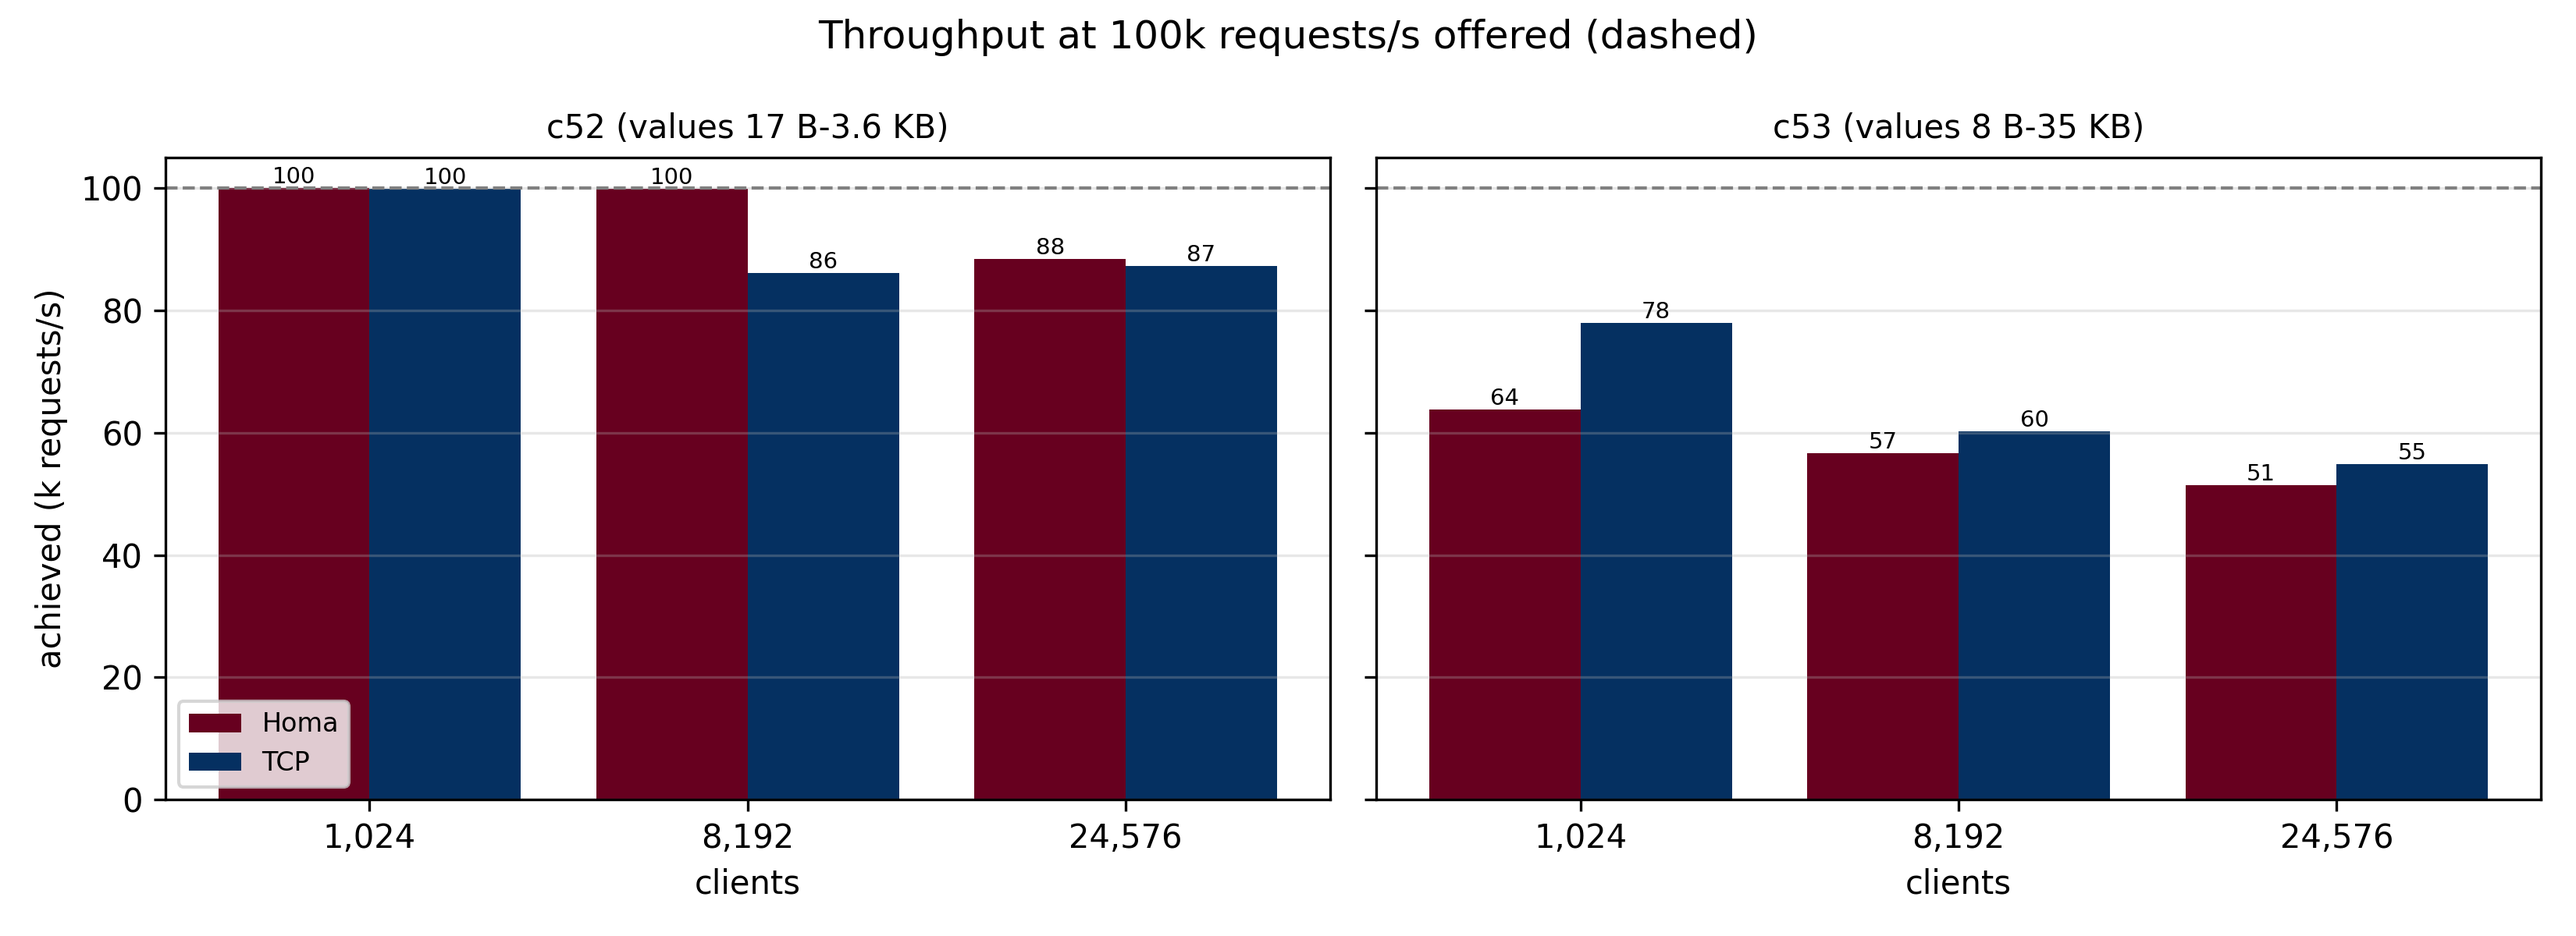
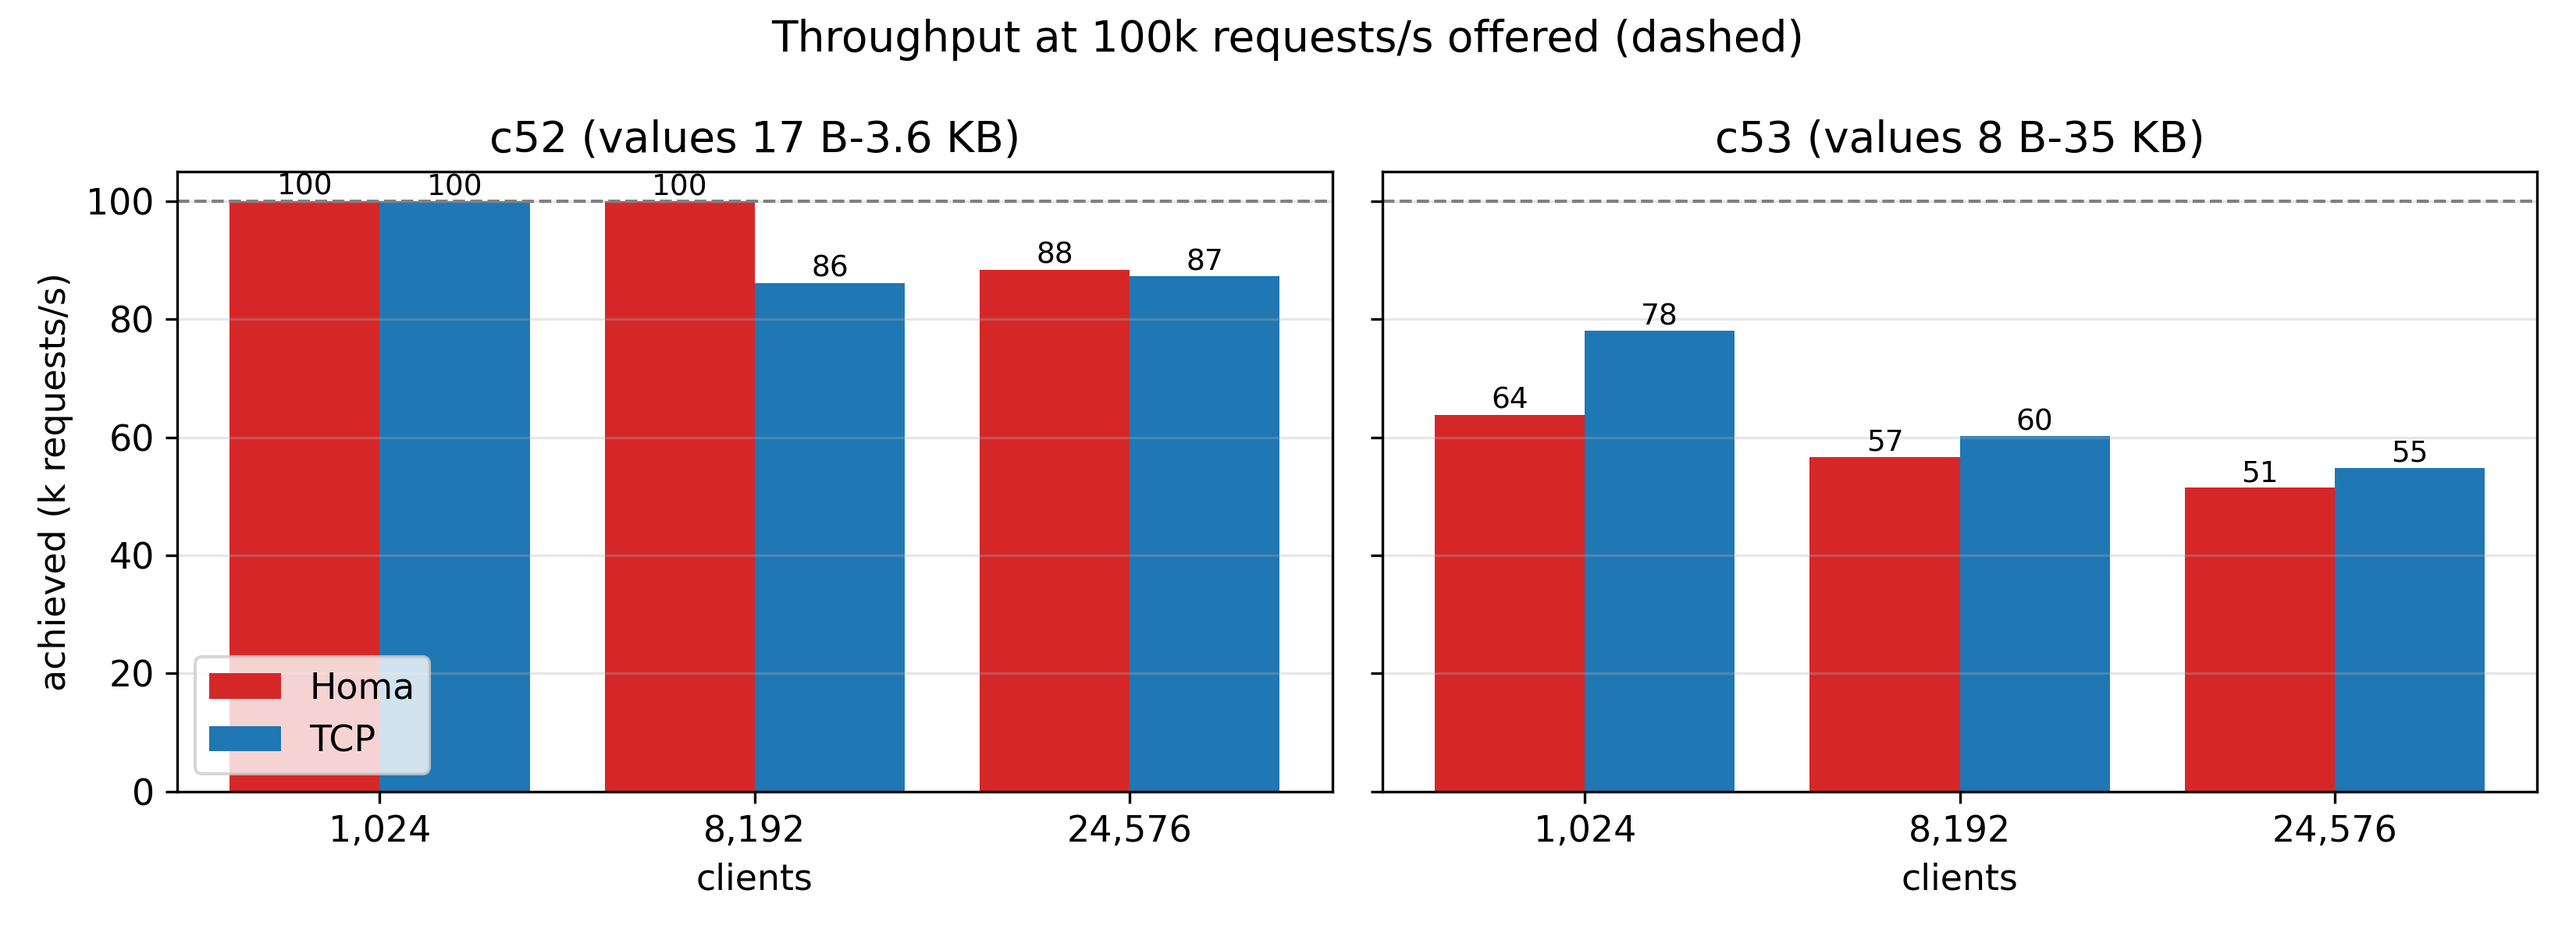
Figures: two series per panel; one figure per workload and sweep; bars for the load sweep

diff --git a/plot.py b/plot.py
@@ -7,8 +7,6 @@ import matplotlib.pyplot as plt
 
 TR = {"homa": "Homa", "tcp": "TCP"}
 WL = {"c52": "c52 (values 17 B-3.6 KB)", "c53": "c53 (values 8 B-35 KB)"}
-SHADE = {"homa": ("#f4a582", "#d6604d", "#67001f"), "tcp": ("#92c5de", "#4393c3", "#053061")}
-MARK = ("o", "s", "^")
 
 def load(name):  # (workload, threads, clients, offered, transport) -> median of each column over rounds
     g = collections.defaultdict(list)
@@ -23,76 +21,74 @@ ok = lambda m: m["ops"] >= 0.98 * m["offered"]  # the server kept up with the of
 cpu = lambda m: m["server_busy_sum"] / 100 / m["ops"] * 1e6  # node0 CPU us per request
 CT, CL = sorted({k[1] for k in C}), sorted({k[3] for k in C})
 
-def by_clients(ax, w, L, f):
-    # one line per client thread count, so a line varies only the clients per thread; linear axis from 0,
-    # and a point over 4x the panel's next largest is drawn at the top with its value
-    lines = [(tr, t, col, mk, sorted((k[2], f(m)) for k, m in C.items()
-                                     if k[0] == w and k[1] == t and k[3] == L and k[4] == tr and ok(m)))
-             for tr in TR for t, col, mk in zip(CT, SHADE[tr], MARK)]
-    vals = sorted(v for *_, pts in lines for _, v in pts)
-    top = vals[-1] * 1.1 if vals[-1] <= 4 * vals[-2] else vals[-2] * 1.25
-    for tr, t, col, mk, pts in lines:
-        ax.plot([n for n, _ in pts], [min(v, top) for _, v in pts], "-", marker=mk, ms=4, color=col,
-                label=f"{TR[tr]}, {t} threads")
-        for n, v in pts:
-            if v > top:
-                ax.annotate(f"{v / 1000:.0f} ms", (n, top), textcoords="offset points", xytext=(6, -10), fontsize=7, color=col)
-    ax.set_xscale("log"); ax.set_ylim(0, top); ax.grid(alpha=.3)
-    ax.set_title(f"{WL[w]}, {L // 1000}k requests/s", fontsize=9)
+COL = {"homa": "#d62728", "tcp": "#1f77b4"}
+plt.rcParams.update({"font.size": 11, "lines.linewidth": 2.2, "lines.markersize": 6})
+FT = 8  # the thread count whose series spans 8 to 24,576 clients; 4 and 12 threads are in the tables
 
-# 1. server CPU per request vs clients
-fig, axs = plt.subplots(2, len(CL), figsize=(11, 7.5), sharex=True)
-for i, w in enumerate(WL):
-    for j, L in enumerate(CL):
-        by_clients(axs[i][j], w, L, cpu)
-        if j == 0: axs[i][j].set_ylabel("node0 CPU per request (us)")
-for ax in axs[-1]: ax.set_xlabel("clients")
-axs[0][0].legend(fontsize=7, ncol=2)
-fig.suptitle("Server CPU per request vs clients (one line per client thread count)")
-fig.tight_layout(); fig.savefig("cpu-vs-clients.png", dpi=300)
+def ends(ax, xs, vs, tr, top):
+    # a value over the axis is drawn at the top and labelled
+    ax.plot(xs, [min(v, top) for v in vs], "-o", color=COL[tr], label=TR[tr])
+    for x, v in zip(xs, vs):
+        if v > top: ax.annotate(f"{v / 1000:.1f} ms", (x, top), textcoords="offset points", xytext=(5, -12),
+                                fontsize=9, color=COL[tr])
 
-# 2. GET p50 and p99 vs clients
-fig, axs = plt.subplots(4, len(CL), figsize=(11, 13), sharex=True)
-for i, (w, c, lab) in enumerate((w, c, lab) for w in WL for c, lab in (("get_p50_us", "p50"), ("get_p99_us", "p99"))):
-    for j, L in enumerate(CL):
-        by_clients(axs[i][j], w, L, lambda m: m[c])
-        axs[i][j].set_title(f"{WL[w]}, {L // 1000}k requests/s: GET {lab}", fontsize=9)
-        if j == 0: axs[i][j].set_ylabel(f"GET {lab} (us)")
-for ax in axs[-1]: ax.set_xlabel("clients")
-axs[0][0].legend(fontsize=7, ncol=2)
-fig.suptitle("GET latency vs clients (one line per client thread count; loads each transport sustains)")
-fig.tight_layout(); fig.savefig("latency-vs-clients.png", dpi=300)
+# clients sweep, one figure per workload: rows CPU / p50 / p99, columns load
+ROWS = (("CPU per request (us)", cpu), ("GET p50 (us)", lambda m: m["get_p50_us"]), ("GET p99 (us)", lambda m: m["get_p99_us"]))
+for w in WL:
+    fig, axs = plt.subplots(len(ROWS), len(CL), figsize=(11, 10), sharex=True)
+    for i, (lab, f) in enumerate(ROWS):
+        for j, L in enumerate(CL):
+            ax = axs[i][j]
+            ser = {tr: sorted((k[2], f(m)) for k, m in C.items() if k[:2] == (w, FT) and k[3] == L and k[4] == tr and ok(m))
+                   for tr in TR}
+            vals = sorted(v for pts in ser.values() for _, v in pts)
+            top = vals[-1] * 1.12 if vals[-1] <= 4 * vals[-2] else vals[-2] * 1.3
+            for tr, pts in ser.items():
+                ends(ax, [n for n, _ in pts], [v for _, v in pts], tr, top)
+            last = max(n for pts in ser.values() for n, _ in pts)
+            if last < 24576: ax.text(.97, .06, f"neither keeps up\nbeyond {last:,} clients", transform=ax.transAxes,
+                                     ha="right", fontsize=9, color="gray")
+            ax.set_xscale("log"); ax.set_ylim(0, top); ax.grid(alpha=.3)
+            if i == 0: ax.set_title(f"{L // 1000}k requests/s")
+            if j == 0: ax.set_ylabel(lab)
+            if i == len(ROWS) - 1: ax.set_xlabel("clients (8 threads)")
+    axs[0][0].legend()
+    fig.suptitle(f"{WL[w]}: server CPU and GET latency vs clients")
+    fig.tight_layout(); fig.savefig(f"{w}-clients.png", dpi=300)
 
-# 3. GET p50 and p99 vs offered load, 1,024-24,576 clients
+# load sweep, one figure per workload: grouped bars, rows p50 / p99, columns clients
 NS, LOADS = sorted({k[2] for k in D if k[2] >= 1024}), sorted({k[3] for k in D})
-fig, axs = plt.subplots(2, len(NS), figsize=(13, 7.5), sharey="row")
-for i, w in enumerate(WL):
-    for j, n in enumerate(NS):
-        ax = axs[i][j]
-        for tr in TR:
-            for c, ls, lab in (("get_p99_us", "-", "p99"), ("get_p50_us", "--", "p50")):
-                pts = [(L / 1000, D[(w, 16, n, L, tr)][c]) for L in LOADS if ok(D[(w, 16, n, L, tr)])]
-                ax.plot([x for x, _ in pts], [v for _, v in pts], ls, marker="o", ms=3, color=SHADE[tr][2],
-                        label=f"{TR[tr]} {lab}")
-        ax.set_xlim(15, 105); ax.set_yscale("log"); ax.grid(alpha=.3)
-        ax.set_title(f"{WL[w]}, {n:,} clients", fontsize=10)
-        if i == 1: ax.set_xlabel("offered load (k requests/s)")
-        if j == 0: ax.set_ylabel("GET latency (us)")
-axs[0][0].legend(fontsize=8)
-fig.suptitle("GET p50 and p99 vs load, up to the load each transport sustains (16 client threads)")
-fig.tight_layout(); fig.savefig("latency-vs-load.png", dpi=300)
+for w in WL:
+    fig, axs = plt.subplots(2, len(NS), figsize=(13, 7), sharey="row")
+    for i, (c, lab) in enumerate((("get_p50_us", "GET p50 (us)"), ("get_p99_us", "GET p99 (us)"))):
+        for j, n in enumerate(NS):
+            ax = axs[i][j]
+            for b, tr in enumerate(TR):
+                for x, L in enumerate(LOADS):
+                    m, xb = D[(w, 16, n, L, tr)], x + (b - .5) * .4
+                    if ok(m): ax.bar(xb, m[c], .4, color=COL[tr], label=TR[tr] if x == 0 else None)
+                    else: ax.text(xb, 0, f" saturated at {m['ops'] / 1000:.0f}k", rotation=90, va="bottom",
+                                  ha="center", fontsize=8, color=COL[tr])
+            ax.set_xticks(range(len(LOADS)), [f"{L // 1000}k" for L in LOADS]); ax.set_xlim(-.6, len(LOADS) - .3)
+            ax.grid(axis="y", alpha=.3)
+            if i == 0: ax.set_title(f"{n:,} clients")
+            if i == 1: ax.set_xlabel("offered load (requests/s)")
+            if j == 0: ax.set_ylabel(lab)
+    axs[0][0].legend()
+    fig.suptitle(f"{WL[w]}: GET latency vs load (16 client threads)")
+    fig.tight_layout(); fig.savefig(f"{w}-load.png", dpi=300)
 
-# 4. throughput at 100k offered
+# throughput at 100k offered
 fig, axs = plt.subplots(1, 2, figsize=(11, 4), sharey=True)
 for ax, w in zip(axs, WL):
     for b, tr in enumerate(TR):
         bars = ax.bar([x + (b - .5) * .4 for x in range(len(NS))], [D[(w, 16, n, 100000, tr)]["ops"] / 1000 for n in NS],
-                      .4, color=SHADE[tr][2], label=TR[tr])
-        ax.bar_label(bars, fmt="%.0f", fontsize=7)
+                      .4, color=COL[tr], label=TR[tr])
+        ax.bar_label(bars, fmt="%.0f", fontsize=9)
     ax.axhline(100, ls="--", color="gray", lw=1)
     ax.set_xticks(range(len(NS)), [f"{n:,}" for n in NS]); ax.set_xlabel("clients")
-    ax.set_title(WL[w], fontsize=10); ax.grid(axis="y", alpha=.3)
-axs[0].set_ylabel("achieved (k requests/s)"); axs[0].legend(fontsize=8, loc="lower left")
+    ax.set_title(WL[w]); ax.grid(axis="y", alpha=.3)
+axs[0].set_ylabel("achieved (k requests/s)"); axs[0].legend(loc="lower left")
 fig.suptitle("Throughput at 100k requests/s offered (dashed)")
 fig.tight_layout(); fig.savefig("throughput.png", dpi=300)
 

diff --git a/README.md b/README.md
@@ -106,21 +106,20 @@ transport no longer keeps up. Latency is reported only where the achieved load i
 the offered load; beyond that it measures the backlog. Every run at 20k and 40k requests/s
 achieved its offered load within 0.4%.
 
-### Server CPU per request, 4 to 24,576 clients
+### 4 to 24,576 clients: server CPU and GET latency
 
-![cpu-vs-clients](cpu-vs-clients.png)
+![c52 clients](c52-clients.png)
+![c53 clients](c53-clients.png)
 
-TCP's cost per request grows with the number of clients from the first connections on; Homa's does
-not. With 4 clients both spend the same node0 CPU per request (c52 at 60k: 17.1 us over Homa, 17.3
-over TCP; with c53 at 20k TCP is 5% cheaper). At 24,576 clients TCP spends 28.6 us (c52, 60k) and
-59.0 us (c53, 20k), Homa 17.0 and 35.1: TCP costs 1.7x as much. Homa's cost stays within 7% over
-the whole range. Each line is one client thread count, and the lines of a transport overlap: the
-server's cost depends on the number of clients, not on how the client host drives them.
+The figures show the 8-thread series, the one that spans 8 to 24,576 clients; the tables also give
+4 and 12 threads (4 to 768 clients), whose CPU per request falls on the same curve: the server's
+cost depends on the number of clients, not on how the client host drives them.
 
-### GET latency, 4 to 24,576 clients
-
-![latency-vs-clients](latency-vs-clients.png)
-
+- **Server CPU**: TCP's cost per request grows with the number of clients from the first
+  connections on; Homa's does not. With 4 clients both spend the same node0 CPU per request (c52 at
+  60k: 17.1 us over Homa, 17.3 over TCP; with c53 at 20k TCP is 5% cheaper). At 24,576 clients TCP
+  spends 28.6 us (c52, 60k) and 59.0 us (c53, 20k), Homa 17.0 and 35.1: TCP costs 1.7x as much.
+  Homa's cost stays within 7% over the whole range.
 - **c52 (small values)**: Homa's GET p50 is 23-50% lower at 20k and 10-31% lower at 60k at every
   client count but 4 at 60k; its p99 is lower or equal except at 4 clients and 60k (367 vs 339 us)
   and 24,576 clients and 20k (299 vs 283).
@@ -135,7 +134,8 @@ server's cost depends on the number of clients, not on how the client host drive
 
 ### Load and capacity, 1,024 to 24,576 clients
 
-![latency-vs-load](latency-vs-load.png)
+![c52 load](c52-load.png)
+![c53 load](c53-load.png)
 ![throughput](throughput.png)
 
 - **c52**: at every load both sustain, Homa's p50 and p99 are lower (p99 up to 40%). At 8,192
